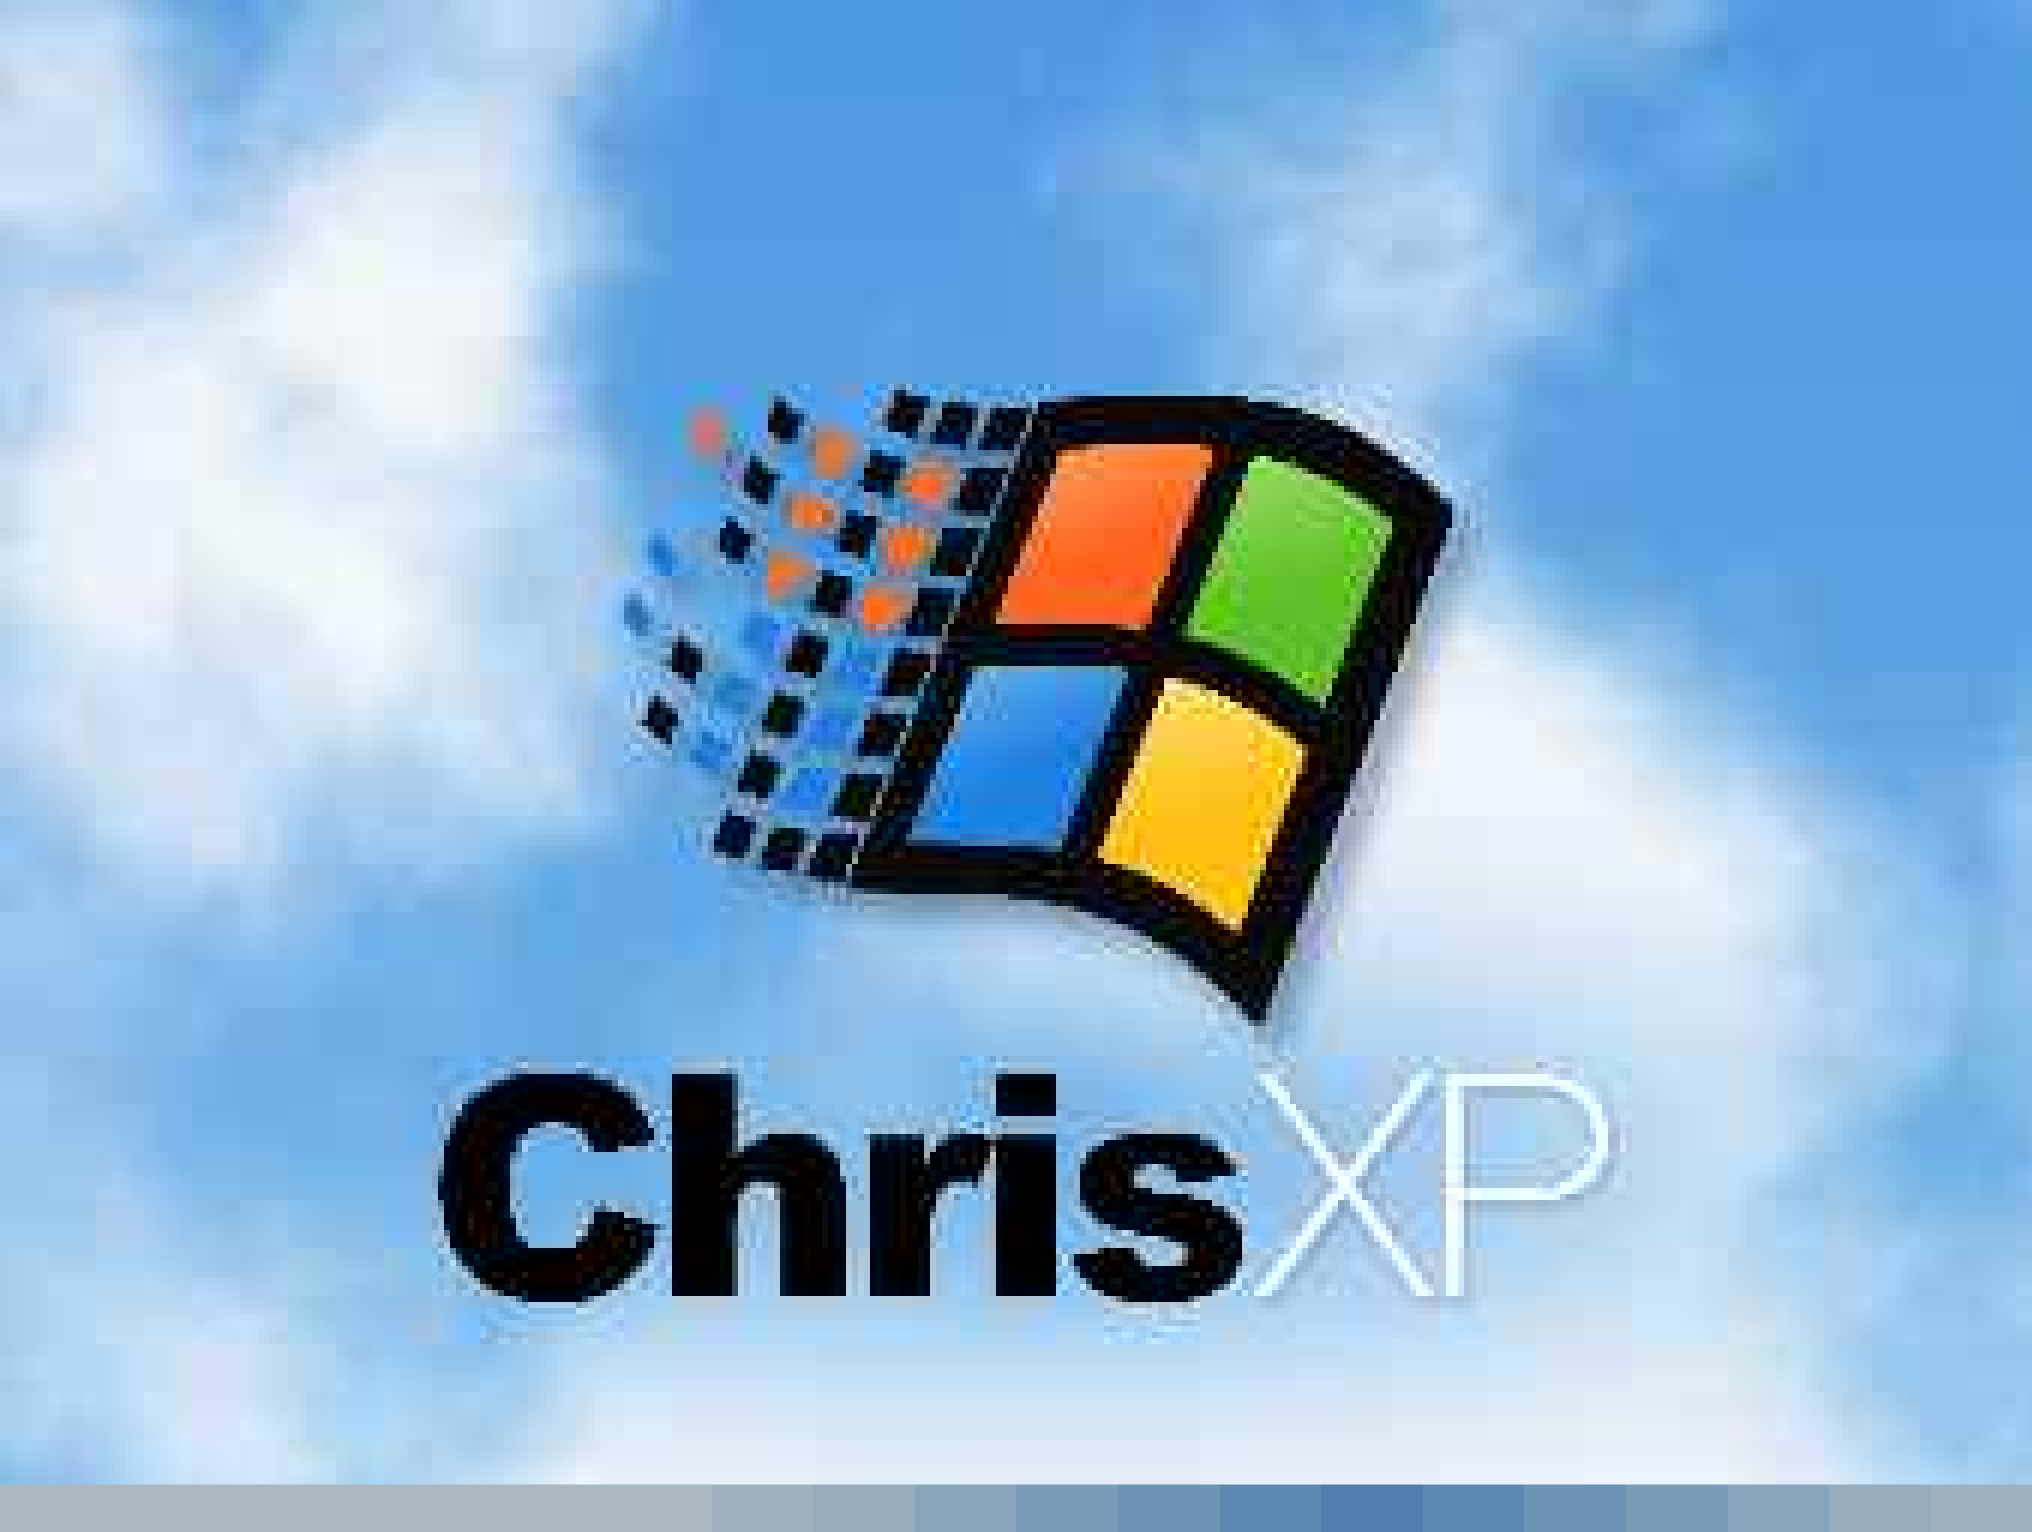
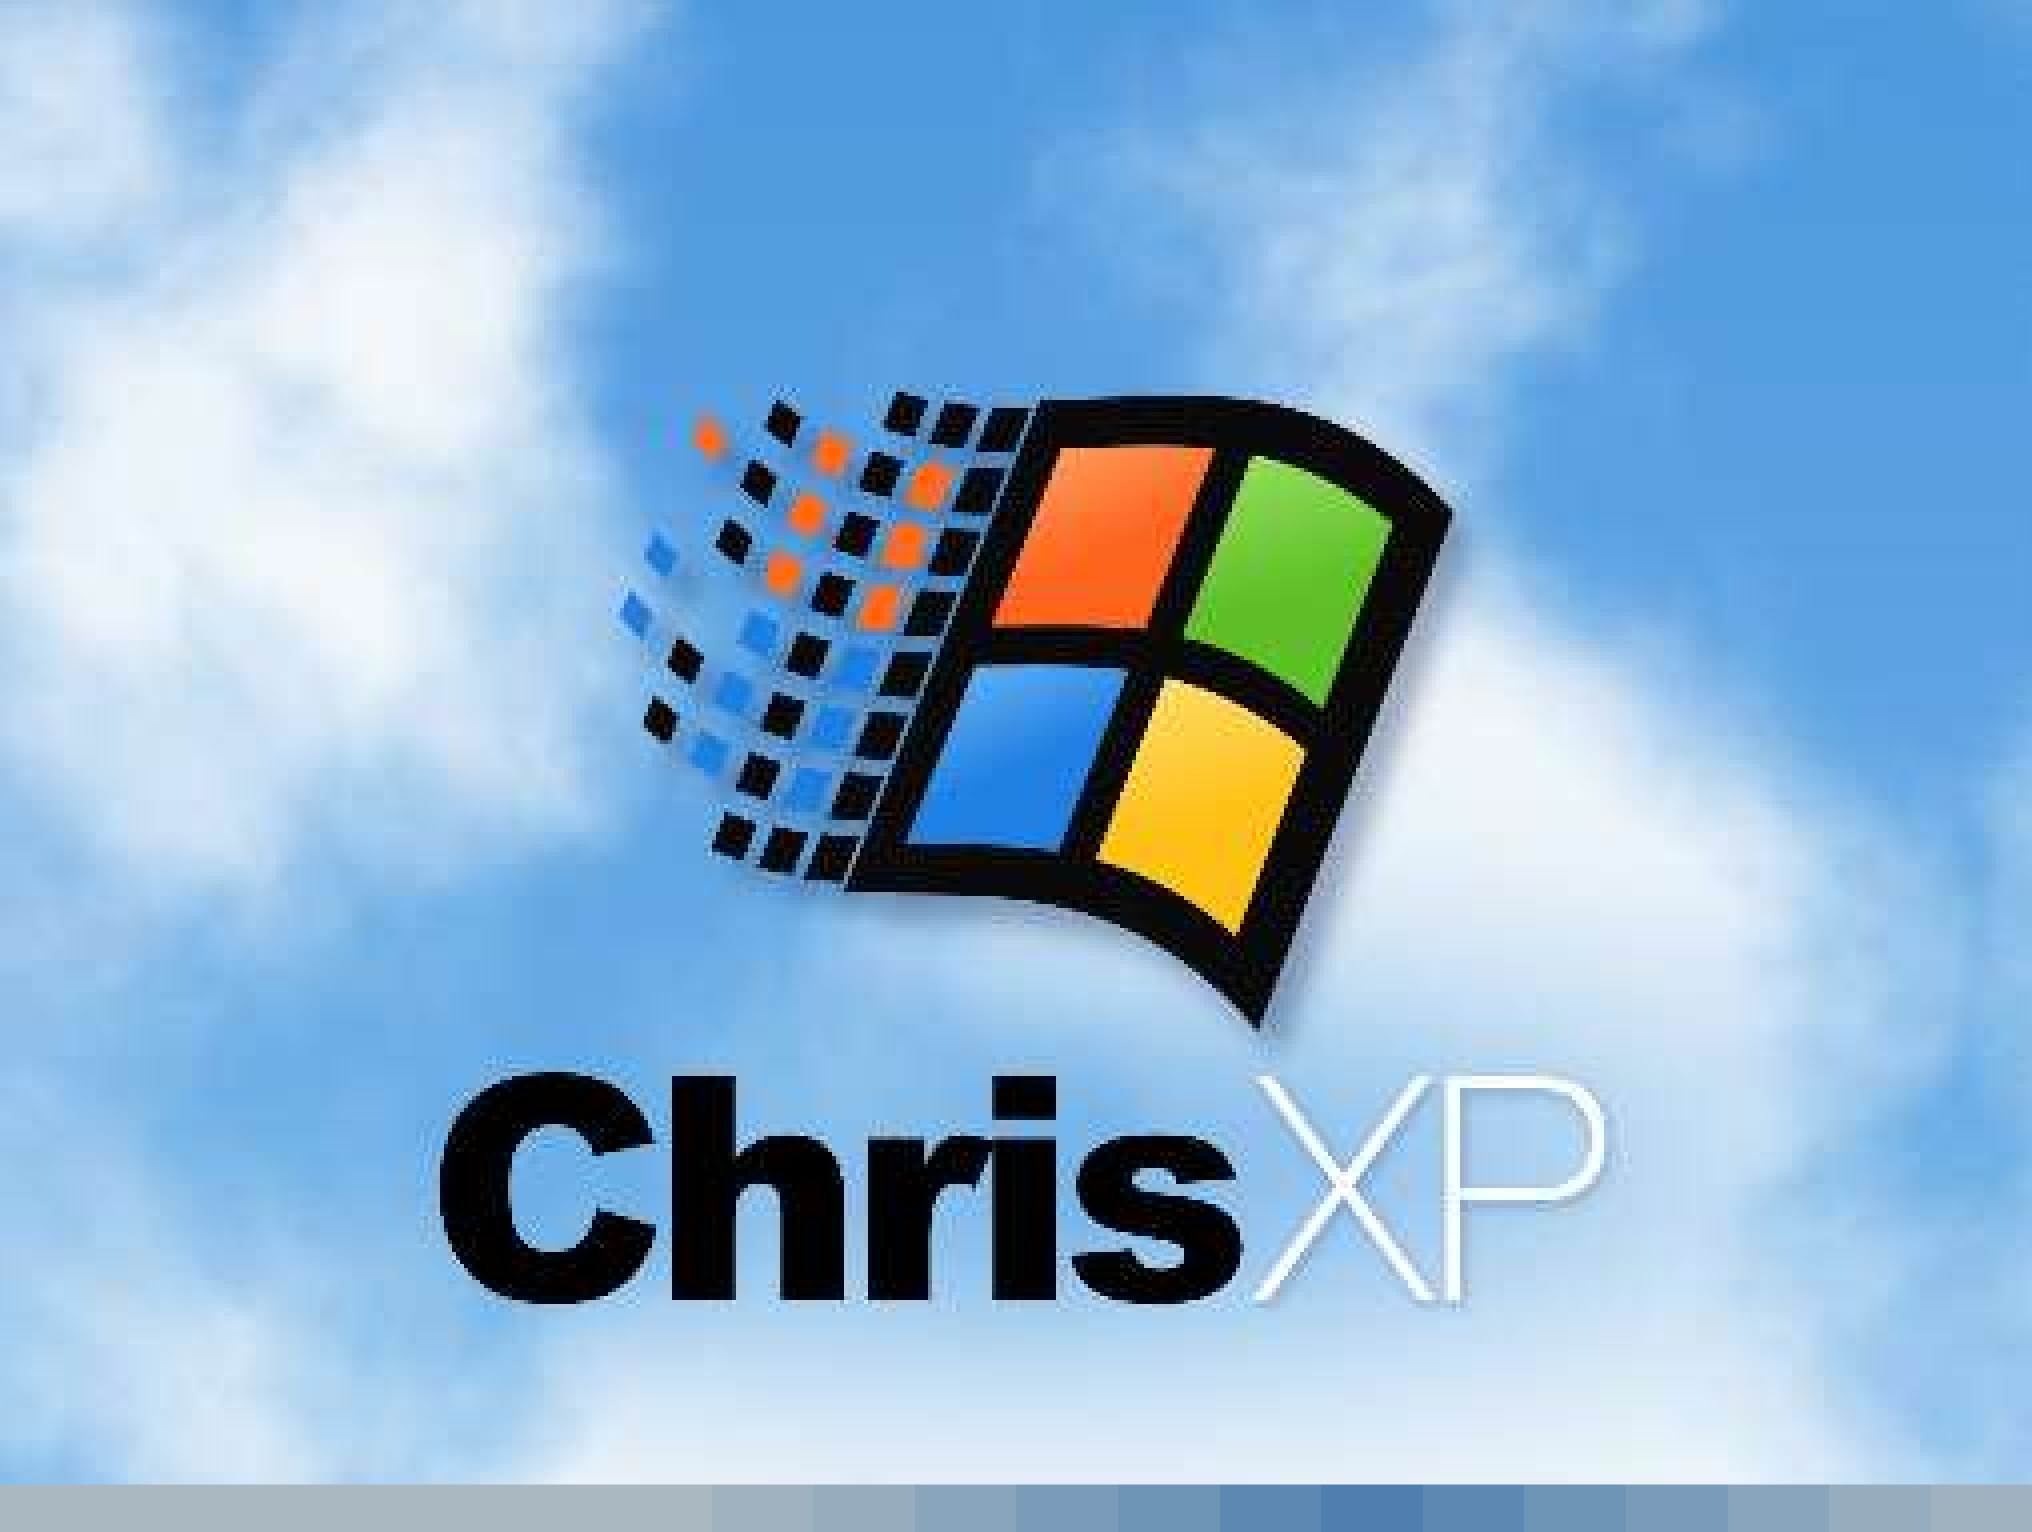
Ease ChrisXP splash compression to a lighter 1995 look

Changed region(s): [[0.31, 0.2454, 0.7131, 0.7363], [0.217, 0.6749, 0.8061, 0.859], [0.217, 0.7056, 0.248, 0.7363]]

diff --git a/scripts/chrisxp-boot.html b/scripts/chrisxp-boot.html
@@ -157,7 +157,7 @@ function strip() {
 
 // --- 1995 treatment: drop to a low-res, reduced-palette bitmap, crush it through JPEG, blow it back up.
 async function crunch() {
-  const LOW = 6, lw = Math.round(W / LOW), lh = Math.round(H / LOW);
+  const LOW = 4, lw = Math.round(W / LOW), lh = Math.round(H / LOW);
   const low = document.createElement('canvas'); low.width = lw; low.height = lh;
   const lc = low.getContext('2d');
   lc.imageSmoothingQuality = 'high';
@@ -171,7 +171,7 @@ async function crunch() {
   }
   lc.putImageData(img, 0, 0);
   const jpeg = new Image();
-  jpeg.src = low.toDataURL('image/jpeg', .38);
+  jpeg.src = low.toDataURL('image/jpeg', .6);
   await jpeg.decode();
   lc.drawImage(jpeg, 0, 0);
   // Replicate pixels by hand; headless Chrome still filters drawImage with smoothing disabled.
